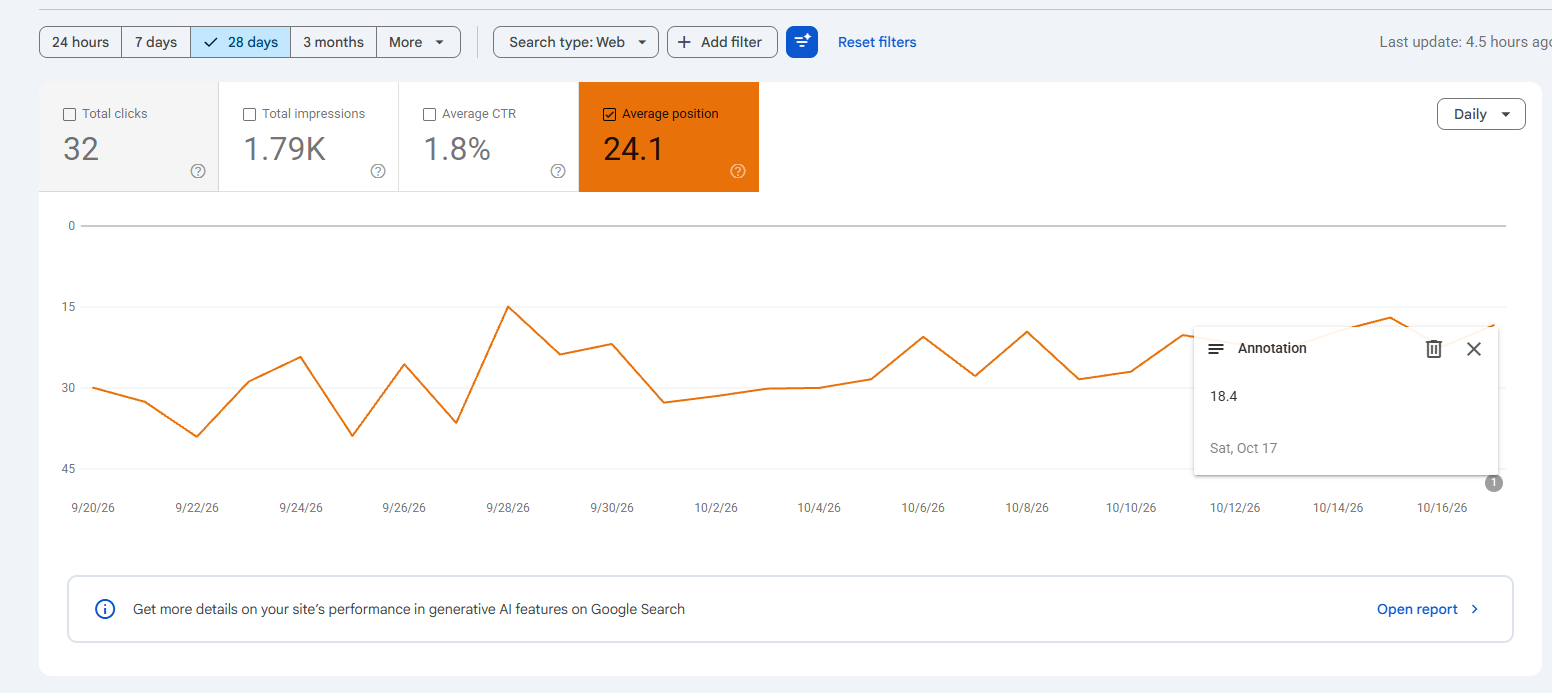
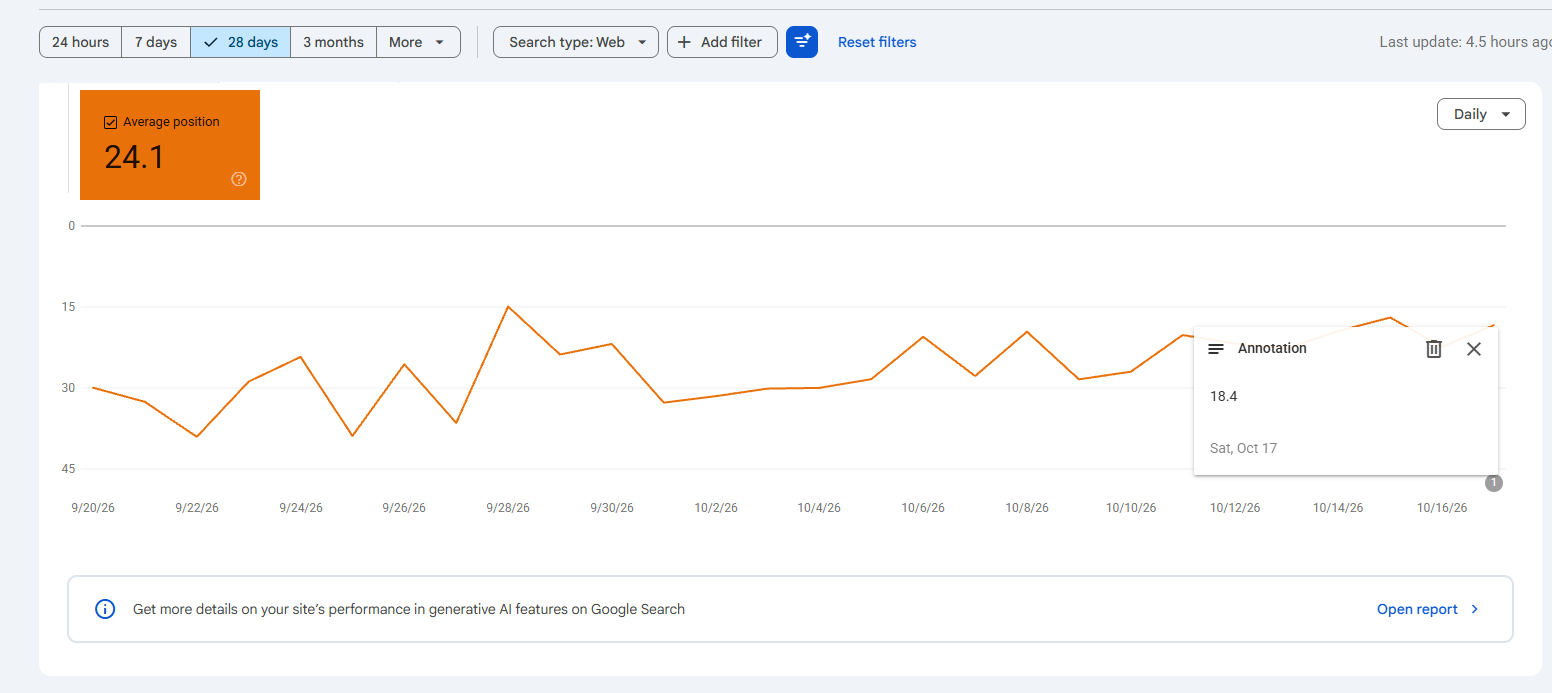
Case study: Search Console screenshots with the position card only

Changed region(s): [[0.0309, 0.1212, 0.2474, 0.303], [0.3711, 0.1212, 0.4948, 0.303], [0.2784, 0.1515, 0.3402, 0.2424]]

diff --git a/src/app/globals.css b/src/app/globals.css
@@ -801,7 +801,5 @@
 /* Header nav labels never wrap onto two lines. */
 header nav a { white-space: nowrap; }
 
-/* Search Console screenshots: show the position chart only; the clicks and
-   impressions cards at the top are cropped out (content, not platform). */
+/* Search Console screenshots (position only), stacked full width. */
 .case-figures-gsc { grid-template-columns: 1fr; }
-.case-figures-gsc img { aspect-ratio: 1552 / 340; object-fit: cover; object-position: center 55%; }
